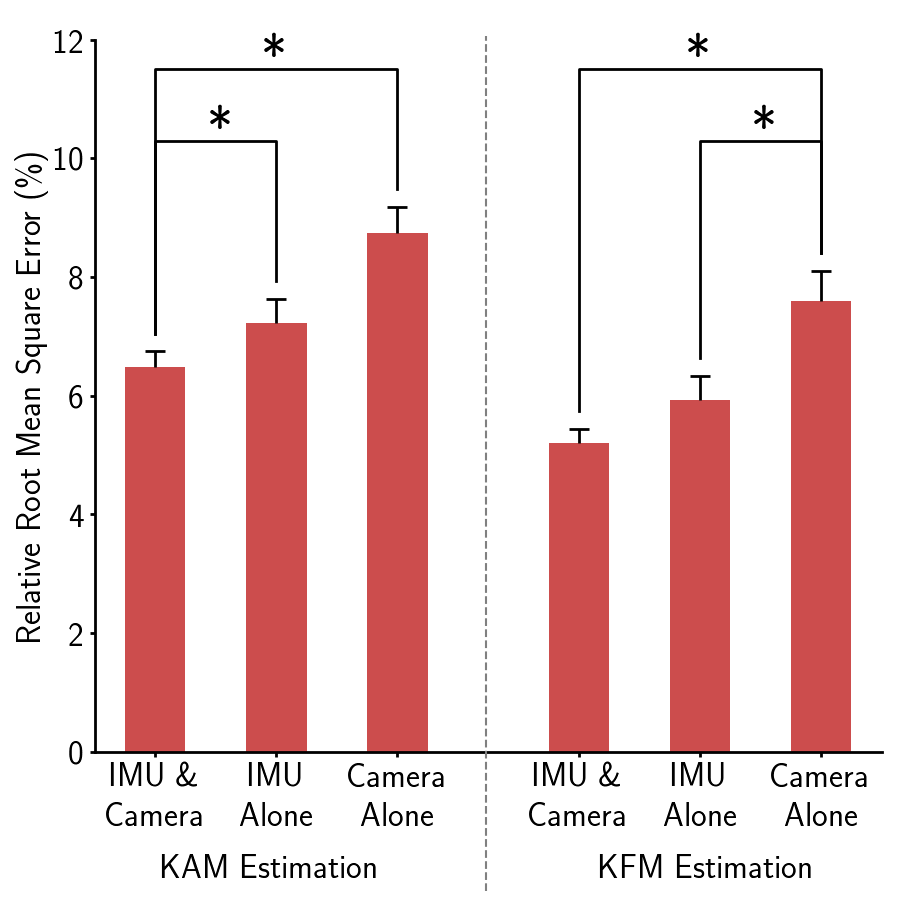
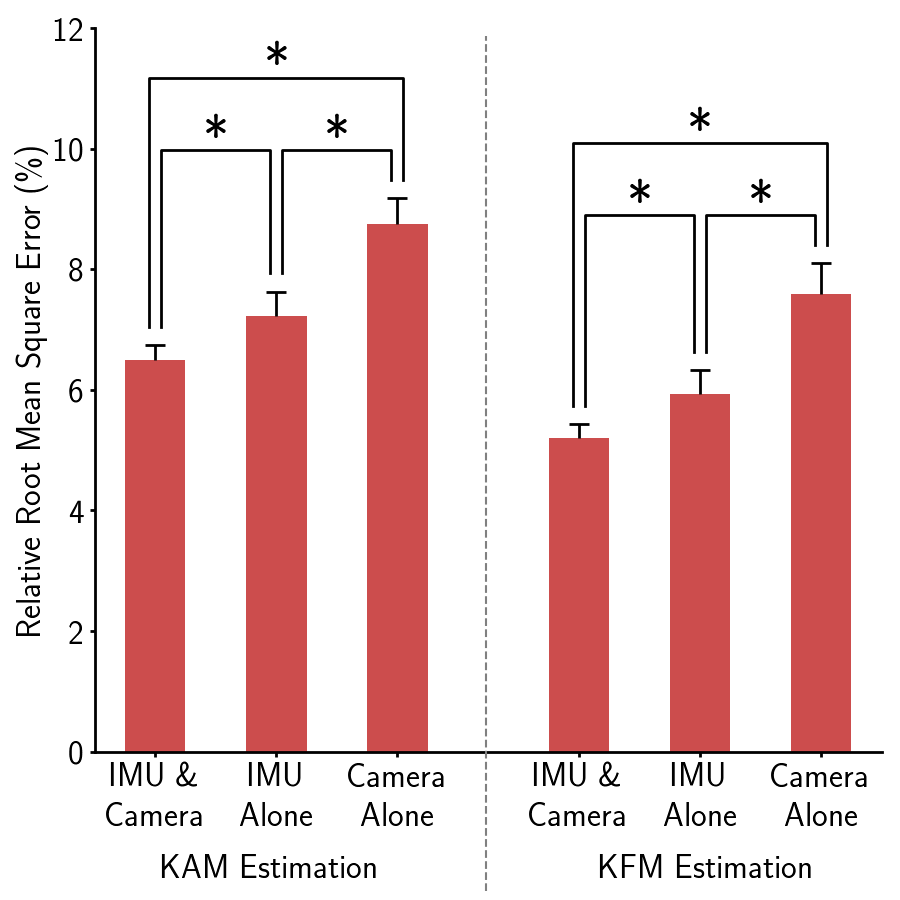
updated figures

diff --git a/figures/f7.py b/figures/f7.py
@@ -4,23 +4,41 @@ import matplotlib.lines as lines
 import matplotlib.pyplot as plt
 from matplotlib import rc
 import pandas as pd
-import prettytable as pt
-import numpy as np
 from figures.f6 import format_errorbar_cap, save_fig
+from figures.f6 import print_anova_with_lsd
 
 
-def draw_f7_bar(_mean, _std):
+def draw_sigifi_sign(mean_, std_, bar_locs, one_two=True, two_three=True, one_three=True):
+    x_offset = 0.3
+    lo = 0.1        # line offset
+    y_top = max([a + b for a, b in zip(mean_, std_)])
+
+    for pair, loc_0, loc_1 in zip([one_two, two_three, one_three], [0, 1, 0], [1, 2, 2]):
+        if not pair: continue
+        if loc_0 == 0 and loc_1 == 2:
+            top_line = y_top + 1.4
+            coe_0, coe_1 = 0.58, 0.42
+            lo = - lo
+        else:
+            top_line = y_top + 0.5
+            coe_0, coe_1 = 0.66, 0.34
+        diff_line_0x = [bar_locs[loc_0]+lo, bar_locs[loc_0]+lo, bar_locs[loc_1]-lo, bar_locs[loc_1]-lo]
+        diff_line_0y = [mean_[loc_0] + std_[loc_0] + x_offset, top_line, top_line, mean_[loc_1] + std_[loc_1] + x_offset]
+        plt.plot(diff_line_0x, diff_line_0y, 'black', linewidth=LINE_WIDTH)
+        plt.text(bar_locs[loc_0]*coe_0 + bar_locs[loc_1]*coe_1, top_line+0.15, '*', color='black', size=30)
+
+
+def draw_f7_bar(_mean, _std, sigifi_sign_fun):
     def format_ticks(x_locs):
         ax = plt.gca()
         ax.set_ylabel('Relative Root Mean Square Error (\%)', fontdict=FONT_DICT_LARGE)
         ax.set_xlabel('KAM Estimation \ \ \ \ \ \ \ \ \ \ \ \ \ \ \ \ \ \ \ \ KFM Estimation', fontdict=FONT_DICT_LARGE, labelpad=14)
-        ax.set_ylim(0, 12)
-        ax.set_yticks(range(0, 13, 2))
-        ax.set_yticklabels(range(0, 13, 2), fontdict=FONT_DICT_LARGE)
+        ax.set_ylim(0, 14)
+        ax.set_yticks(range(0, 15, 2))
+        ax.set_yticklabels(range(0, 15, 2), fontdict=FONT_DICT_LARGE)
         ax.set_xlim(-1, 16)
-        # x_locs = [i + x for x in [0, 4, 9, 13] for i in range(3)]
         ax.set_xticks(x_locs)
-        ax.set_xticklabels(['', 'IMU \&\nCamera', '', '', 'IMU\nAlone', '', '', 'IMU \&\nCamera', '', '', 'IMU\nAlone', ''], fontdict=FONT_DICT_LARGE)
+        ax.set_xticklabels(['', 'IMU \&\nCamera', '', '', 'IMU\nAlone', '', '', 'IMU \&\nCamera', '', '', 'IMU\nAlone', ''], fontdict=FONT_DICT_LARGE, linespacing=0.95)
     rc('text', usetex=True)
     fig = plt.figure(figsize=(9, 9))
     format_axis()
@@ -29,11 +47,18 @@ def draw_f7_bar(_mean, _std):
     format_ticks(x_locs)
     bars = []
     for i_condition in range(4):
-        i_moment = int(np.floor(i_condition / 2))
-        i_camera_used = int(i_condition % 2)
         bars.append(plt.bar(x_locs[i_condition*3:(i_condition+1)*3], _mean[i_condition*3:(i_condition+1)*3],
-                            # width=0.7, color=[[0.1, 0.3, 0.3], [0.1, 0.6, 0.6], [0.1, 0.9, 0.9]]))
                             width=0.7, color=[[0.8, 0.3, 0.3], [0.9, 0.55, 0.55], [1, 0.8, 0.8]]))
+        if i_condition == 0:
+            sigifi_sign_fun(_mean[i_condition * 3:(i_condition + 1) * 3], _std[i_condition * 3:(i_condition + 1) * 3],
+                            x_locs[i_condition * 3:(i_condition + 1) * 3], two_three=False)
+        elif i_condition == 1:
+            sigifi_sign_fun(_mean[i_condition * 3:(i_condition + 1) * 3], _std[i_condition * 3:(i_condition + 1) * 3],
+                            x_locs[i_condition * 3:(i_condition + 1) * 3], one_two=False)
+        else:
+            sigifi_sign_fun(_mean[i_condition * 3:(i_condition + 1) * 3], _std[i_condition * 3:(i_condition + 1) * 3],
+                            x_locs[i_condition * 3:(i_condition + 1) * 3])
+
 
     ebar, caplines, barlinecols = plt.errorbar(x_locs, _mean, _std,
                                                capsize=0, ecolor='black', fmt='none', lolims=True,
@@ -41,9 +66,9 @@ def draw_f7_bar(_mean, _std):
     format_errorbar_cap(caplines, 10)
     plt.tight_layout(rect=[0.0, 0.0, 1, 0.88], w_pad=2, h_pad=3)
     plt.legend(bars[0],
-               ['All Eight IMUs', 'Pelvis and both Feet IMUs', 'Pelvis IMU'],
+               ['All Eight IMUs', 'Three IMUs (Pelvis and both Feet IMUs)', 'One IMU (Pelvis IMU)'],
                # ['All Eight IMUs (\& Cameras)', 'Pelvis, both Feet IMUs (\& camera)', 'Pelvis IMU (\& camera)'],
-               handlelength=2, bbox_to_anchor=(0.7, 1.25), ncol=1, fontsize=FONT_SIZE_LARGE, labelspacing=0.2,
+               handlelength=2, bbox_to_anchor=(0.9, 1.23), ncol=1, fontsize=FONT_SIZE_LARGE, labelspacing=0.2,
                frameon=False)
     l2 = lines.Line2D([0.54, 0.54], [0.01, 0.8], linestyle='--', transform=fig.transFigure, color='gray')
     fig.lines.extend([l2])
@@ -62,7 +87,12 @@ if __name__ == "__main__":
             combo_result = test_df[target_matric + sensor_combo]
             combo_results.append(combo_result)
 
-    draw_f7_bar([result.mean() for result in combo_results], [result.sem() for result in combo_results])
+    print_anova_with_lsd(combo_results[0:3], ['8_fusion_KAM', '3_fusion_KAM', '1_fusion_KAM'])
+    print_anova_with_lsd(combo_results[3:6], ['8_alone_KAM', '3_alone_KAM', '1_alone_KAM'])
+    print_anova_with_lsd(combo_results[6:9], ['8_fusion_KFM', '3_fusion_KFM', '1_fusion_KFM'])
+    print_anova_with_lsd(combo_results[9:], ['8_alone_KFM', '3_alone_KFM', '1_alone_KFM'])
+
+    draw_f7_bar([result.mean() for result in combo_results], [result.sem() for result in combo_results], draw_sigifi_sign)
     save_fig('f7')
     plt.show()
 

diff --git a/figures/f6.py b/figures/f6.py
@@ -112,24 +112,26 @@ def draw_f6_for_ISB(mean_, std_, sigifi_sign_fun):
 
 
 def sigifi_sign_8(mean_, std_, bar_locs):
-    offset = 0.3
-    diff_line_0x = [bar_locs[0], bar_locs[0], bar_locs[1], bar_locs[1]]
-    diff_line_0y = [mean_[0] + std_[0] + offset, 10.3, 10.3, mean_[1] + std_[1] + offset]
-    plt.plot(diff_line_0x, diff_line_0y, 'black', linewidth=LINE_WIDTH)
-    plt.text(bar_locs[0]*0.55 + bar_locs[1]*0.45, 10.5, '*', color='black', size=40)
-    diff_line_1x = [bar_locs[0], bar_locs[0], bar_locs[2], bar_locs[2]]
-    diff_line_1y = [mean_[0] + std_[0] + offset, 11.5, 11.5, mean_[2] + std_[2] + offset]
-    plt.plot(diff_line_1x, diff_line_1y, 'black', linewidth=LINE_WIDTH)
-    plt.text(bar_locs[0]*0.55 + bar_locs[2]*0.45, 11.7, '*', color='black', size=40)
+    x_offset = 0.3
+    lo = 0.1        # line offset
+    # star_offset =
+    for i in [0, 3]:
+        y_top = max([a + b for a, b in zip(mean_[i:i+3], std_[i:i+3])])
+        top_line_y0, top_line_y1 = y_top + 0.8, y_top + 2
+        diff_line_0x = [bar_locs[i]+lo, bar_locs[i]+lo, bar_locs[i+1]-lo, bar_locs[i+1]-lo]
+        diff_line_0y = [mean_[i] + std_[i] + x_offset, top_line_y0, top_line_y0, mean_[i+1] + std_[i+1] + x_offset]
+        plt.plot(diff_line_0x, diff_line_0y, 'black', linewidth=LINE_WIDTH)
+        plt.text(bar_locs[i]*0.58 + bar_locs[i+1]*0.42, top_line_y0+0.2, '*', color='black', size=40)
 
-    diff_line_0x = [bar_locs[4], bar_locs[4], bar_locs[5], bar_locs[5]]
-    diff_line_0y = [mean_[4] + std_[4] + offset, 10.3, 10.3, mean_[5] + std_[5] + offset]
-    plt.plot(diff_line_0x, diff_line_0y, 'black', linewidth=LINE_WIDTH)
-    plt.text(bar_locs[4]*0.55 + bar_locs[5]*0.45, 10.5, '*', color='black', size=40)
-    diff_line_1x = [bar_locs[3], bar_locs[3], bar_locs[5], bar_locs[5]]
-    diff_line_1y = [mean_[3] + std_[3] + offset, 11.5, 11.5, mean_[5] + std_[5] + offset]
-    plt.plot(diff_line_1x, diff_line_1y, 'black', linewidth=LINE_WIDTH)
-    plt.text(bar_locs[3]*0.55 + bar_locs[5]*0.45, 11.7, '*', color='black', size=40)
+        diff_line_0x = [bar_locs[i+1]+lo, bar_locs[i+1]+lo, bar_locs[i+2]-lo, bar_locs[i+2]-lo]
+        diff_line_0y = [mean_[i+1] + std_[i+1] + x_offset, top_line_y0, top_line_y0, mean_[i+2] + std_[i+2] + x_offset]
+        plt.plot(diff_line_0x, diff_line_0y, 'black', linewidth=LINE_WIDTH)
+        plt.text(bar_locs[i+1]*0.58 + bar_locs[i+2]*0.42, top_line_y0+0.2, '*', color='black', size=40)
+
+        diff_line_1x = [bar_locs[i]-lo, bar_locs[i]-lo, bar_locs[i+2]+lo, bar_locs[i+2]+lo]
+        diff_line_1y = [mean_[i] + std_[i] + x_offset, top_line_y1, top_line_y1, mean_[i+2] + std_[i+2] + x_offset]
+        plt.plot(diff_line_1x, diff_line_1y, 'black', linewidth=LINE_WIDTH)
+        plt.text(bar_locs[i]*0.54 + bar_locs[i+2]*0.46, top_line_y1+0.2, '*', color='black', size=40)
 
 
 def print_anova_with_lsd(combo_results, combo_names=SENSOR_COMBINATION_SORTED):
@@ -186,7 +188,7 @@ if __name__ == "__main__":
     """ A KAM & KFM joint figure """
     pd.DataFrame(combo_results_all).to_csv('results/' + test_name + '_anova.csv', index=False)
     print_mean_rrmse(mean_compare_)
-    # draw_f6_for_ISB(mean_compare_8, sem_compare_8, sigifi_sign_8)
+    # draw_f6_for_ISB(mean_compare_, sem_compare_, sigifi_sign_8)
     draw_f6_kam_and_kfm(mean_compare_, sem_compare_, sigifi_sign_8)
     save_fig('f6')
     plt.show()

diff --git a/figures/t1.py b/figures/t1.py
@@ -6,7 +6,7 @@ from scipy.stats import ttest_1samp, ttest_rel
 
 
 if __name__ == '__main__':
-    result_date = 'results/0131_all_feature_'
+    result_date = 'results/0307'
     result_names = ['8IMU_2camera', '8IMU', '2camera']
     metric_incre = 'rRMSE_'
 
@@ -14,34 +14,18 @@ if __name__ == '__main__':
         result_df = pd.read_csv(result_date + target + '/estimation_result_individual.csv')
 
         """ print table """
-        for i_trial, trial in enumerate(TRIALS):
+        for trial, trial_print in zip(['step_width', 'fpa', 'trunk_sway'], ['Step Width', 'FPA', 'Trunk Sway']):
             trial_df = result_df[result_df['trial'] == trial][[metric_incre + result_name for result_name in result_names]]
-            print('\t\t& {:12}'.format(TRIALS_PRINT[i_trial]), end='')
+            print('\t\t& {:12}'.format(trial_print), end='')
             imu_camera_result = trial_df[metric_incre + result_names[0]]
             print('&{:6.1f} ({:3.1f})'.format(np.mean(imu_camera_result), imu_camera_result.sem()), end='\t')
             for result in result_names[1:]:
-                # increase_percent = (trial_df[metric_incre + result] - trial_df[metric_incre + '_IMU_OP']) / trial_df[metric_incre + '_IMU_OP'] * 100
                 sensor_result = trial_df[metric_incre + result]
                 significance = ''
                 if ttest_rel(imu_camera_result, sensor_result).pvalue < 0.05:
                     significance = '*'
                 print('&{:6.1f} ({:3.1f}) {:1}'.format(np.mean(sensor_result), sensor_result.sem(), significance), end='\t')
             print('\\\\')
-
-        # "print overall increase percent"
-        # metric_feature = 'rRMSE'
-        # result_all_feature_df = pd.read_csv(result_date + 'used_all_the_features_' + target + '/estimation_result_individual.csv')
-        # overall_all_feature_df = result_all_feature_df[result_all_feature_df['trial'] == 'all']
-        # for result in result_names:
-        #     result_all = overall_all_feature_df[metric_feature + result]
-        #     result_sel = overall_df[metric_feature + result]
-        #     ttest_res = ttest_ind(result_all, result_sel)
-        #     print(ttest_res.pvalue)
-
-
-
-
-
 
 
 
